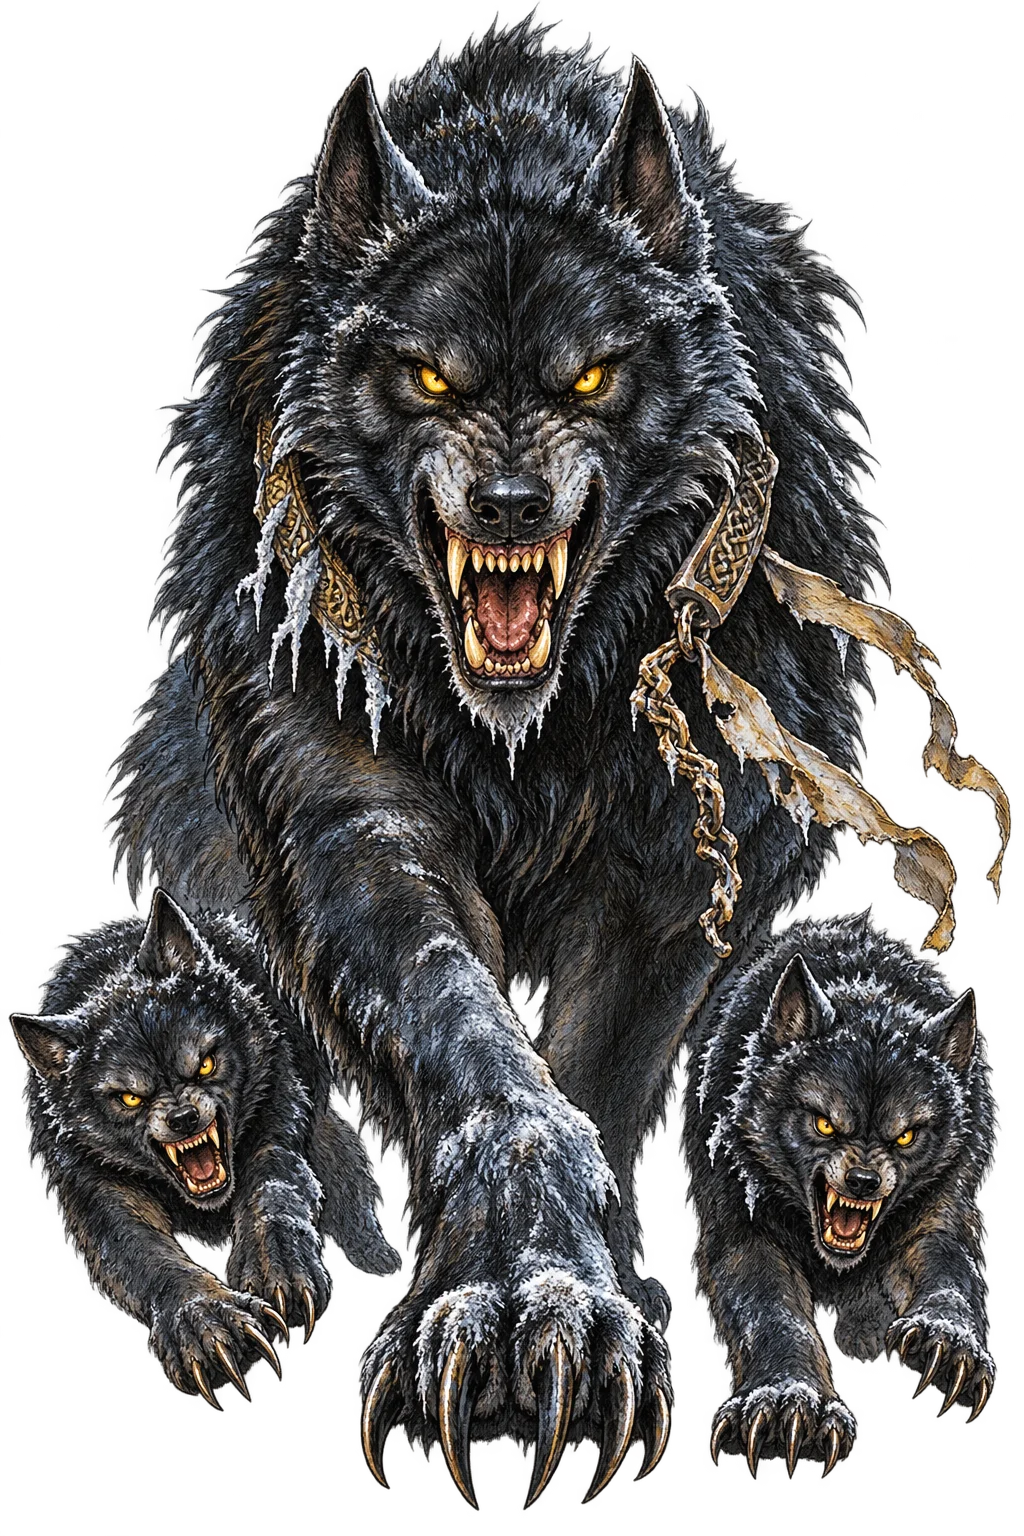
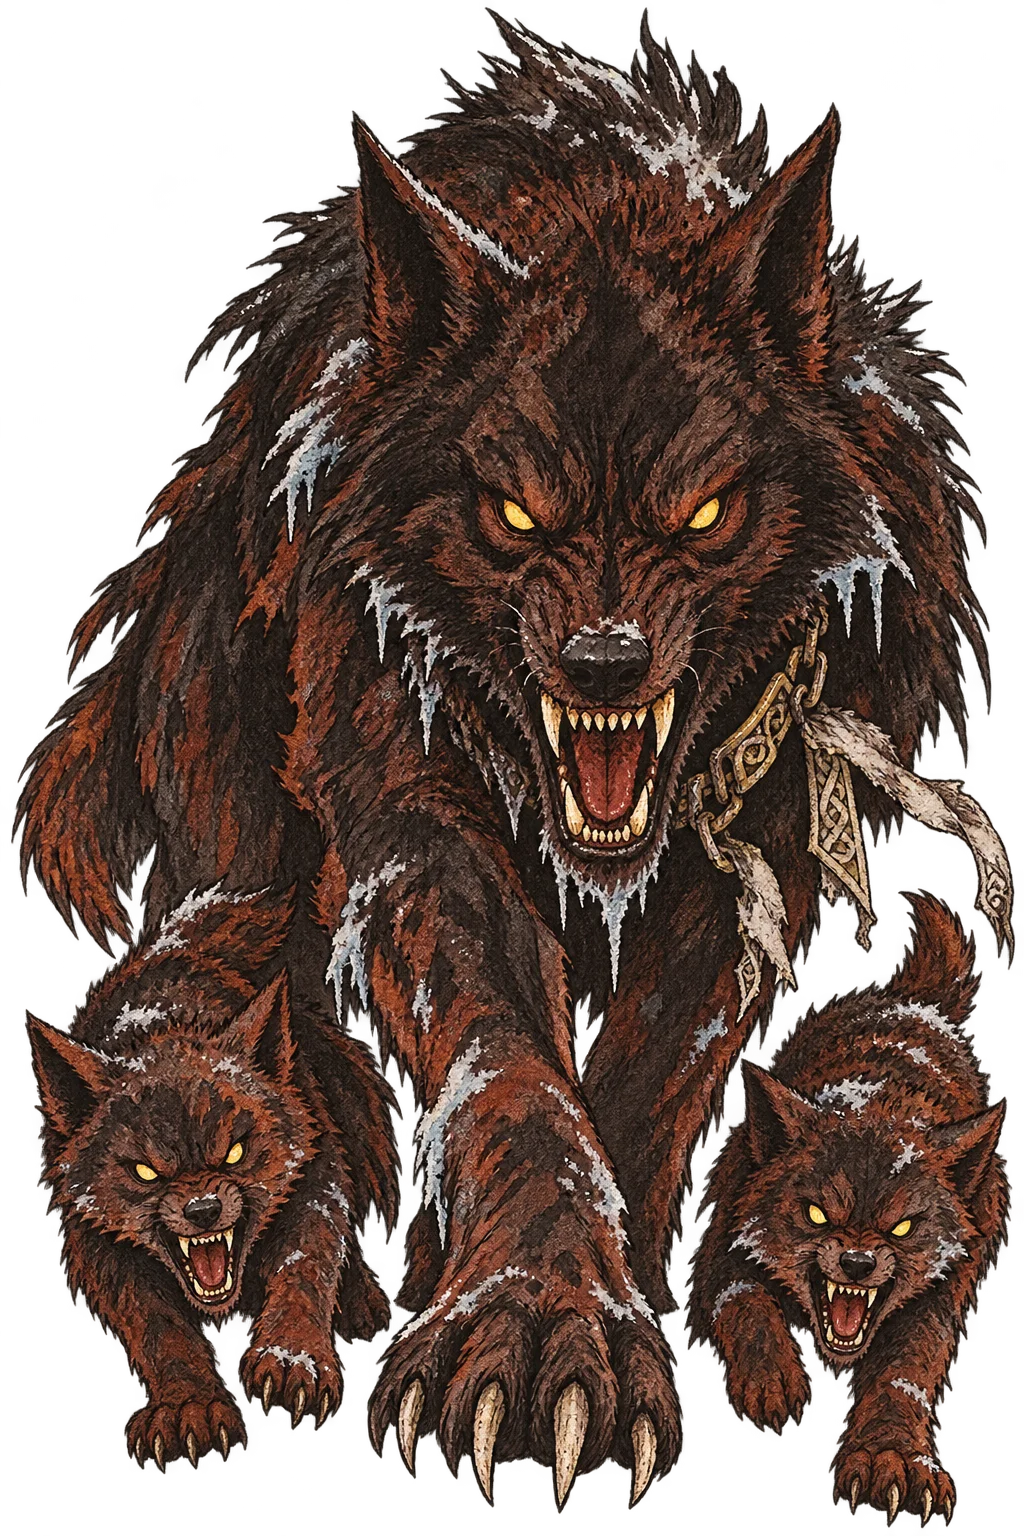
Enemy figures redone in the backdrops' own ink-and-wash style and palette

diff --git a/art/build_manifest.py b/art/build_manifest.py
@@ -810,27 +810,34 @@ def build_act3():
     print('Wrote Act III frames to art/manifest.json.')
 
 # ---- Enemy figures: full-length art of each opponent, shown over its fight background on the pre-fight screen ----
+# Ben (Nov 2026): the first figures looked like AI art pasted on the backdrop. They now use the backdrops' own
+# hand-made look (SCENE_BASE's wording) and each takes its backdrop's palette, so figure and scene feel painted together.
 FIGURE_BASE = (
-    'A full-length figure of an enemy for a mythology card game\'s pre-fight screen, made by hand like a 1993 fantasy '
-    'game-book illustration at its very best: confident black pen-and-ink outlines, rich ink hatching, flat gouache and '
-    'watercolour washes with visible brush marks, bold and colourful where the subject allows. Highly detailed, '
-    'dramatic and menacing, a powerful pose full of character, facing the viewer as an opponent about to fight. The '
-    'whole figure fits inside the frame with a little room around it, standing on nothing. Cut out cleanly on a fully '
-    'transparent background: no ground, no scenery, no frame, no text, no glow behind it.'
+    'A full-length figure of an enemy for the pre-fight screen of a mythology card game, made by hand like a 1993 '
+    'fantasy trading-card or game-book illustration, exactly matching the game\'s painted backgrounds: bold, wobbly '
+    'black pen-and-ink outlines around every shape, filled with thin, flat, transparent watercolour and gouache washes. '
+    'Big simple flat shapes of colour with almost no shading or modelling, a little ink cross-hatching in the shadows, '
+    'blotchy uneven washes with hard dried edges, splatters and visible brush marks, and the rough off-white paper '
+    'texture and grain showing through the paint. Naive, slightly clumsy, decorative and stylised, like an old printed '
+    'card with slightly faded, misregistered colour, in the limited palette given below. Absolutely not realistic: no '
+    'realistic lighting or anatomy rendering, no glossy highlights, no glow, no soft gradients, no fine fur or skin '
+    'detail, no oil-painting look, no 3D, no digital painting, not modern concept art or AI art. '
+    'A strong, menacing pose facing the viewer as an opponent about to fight; the whole figure fits inside the frame. '
+    'Cut out cleanly on a fully transparent background: no ground, no scenery, no frame, no text.'
 )
-# hero -> id -> (opponent name exactly as in the game, subject)
+# hero -> id -> (opponent name exactly as in the game, its backdrop's id in scenes.json, subject)
 FIGURES = {
-    'ody': {'poly': ('Polyphemus', 'Polyphemus the Cyclops of Homer\'s Odyssey: a towering, hairy shepherd giant with a '
+    'ody': {'poly': ('Polyphemus', 'polyphemus', 'Polyphemus the Cyclops of Homer\'s Odyssey: a towering, hairy shepherd giant with a '
                      'single huge glaring eye in the middle of his brow, wild black beard, a sheepskin over his shoulders, '
                      'gripping a club made from a whole olive trunk, a ram at his feet, roaring. Greek in every detail.')},
-    'odin': {'fenrir': ('Fenrir\'s Brood', 'The wolf-brood of Fenrir from Norse myth: a gigantic black wolf with burning '
+    'odin': {'fenrir': ('Fenrir\'s Brood', 'fenrir', 'The wolf-brood of Fenrir from Norse myth: a gigantic black wolf with burning '
                         'yellow eyes and bared fangs, frost on its fur, a broken silken fetter hanging from its neck, two '
                         'snarling wolf cubs at its paws, lunging forward. Norse in every detail.')},
-    'wukong': {'bulldemon': ('The Bull Demon King', 'The Bull Demon King of Journey to the West: a huge demon king with '
+    'wukong': {'bulldemon': ('The Bull Demon King', 'bulldemon', 'The Bull Demon King of Journey to the West: a huge demon king with '
                              'the head of a black bull and great curved horns, burning eyes, in red-and-gold lacquered '
                              'armour and a flowing cape, swinging an iron cudgel, flames curling around him. Chinese, Ming '
                              'dynasty, with the brush rhythm of Chinese painting.')},
-    'thoth': {'sekhmet': ('Sekhmet, the Eye of Ra', 'Sekhmet, the lioness-headed Egyptian goddess of war and plague: '
+    'thoth': {'sekhmet': ('Sekhmet, the Eye of Ra', 'sekhmet', 'Sekhmet, the lioness-headed Egyptian goddess of war and plague: '
                           'a tall powerful woman with the head of a fierce lioness crowned by a blazing red sun disc and a '
                           'rearing cobra, in a red linen dress and a broad collar of gold and lapis, holding a sceptre, '
                           'mouth open in a roar, desert heat rippling around her. Ancient Egyptian in every detail.')},
@@ -1044,8 +1051,13 @@ def main():
     for k, (size, bg, prompt) in HERO_UI.get(a.hero, {}).items():
         icons[k] = {'name': k, 'prompt': prompt, 'output': f'art/icons/{folder}/{k}.png', 'size': size,
                     'format': 'png', 'background': bg}
-    for k, (nm, t) in FIGURES.get(a.hero, {}).items():
-        icons[f'fig_{k}'] = {'name': f'{nm} figure', 'opponent': nm, 'prompt': f'{FIGURE_BASE}\n\nSubject: {t}',
+    _scn = json.load(open(os.path.join(ART, 'scenes.json'), encoding='utf-8')).get(a.hero, {})
+    _brush = {'wukong': ' The brush rhythm of Chinese ink-wash painting mixed into the pen-and-ink style.',
+              'thoth': ' The flat bright colours and bold outlines of Egyptian tomb painting mixed into the pen-and-ink style.'}
+    for k, (nm, sid, t) in FIGURES.get(a.hero, {}).items():
+        pal = (_scn.get(sid) or {}).get('palette', '')
+        icons[f'fig_{k}'] = {'name': f'{nm} figure', 'opponent': nm,
+                             'prompt': f'{FIGURE_BASE}{_brush.get(a.hero, "")}\n\nSubject: {t}\nColour: {pal}.',
                              # webp keeps transparency at a fraction of a png's size (this Mac can't encode webp)
                              'output': f'art/icons/{folder}/fig_{k}.webp', 'size': '1024x1536', 'format': 'webp',
                              'background': 'transparent'}
